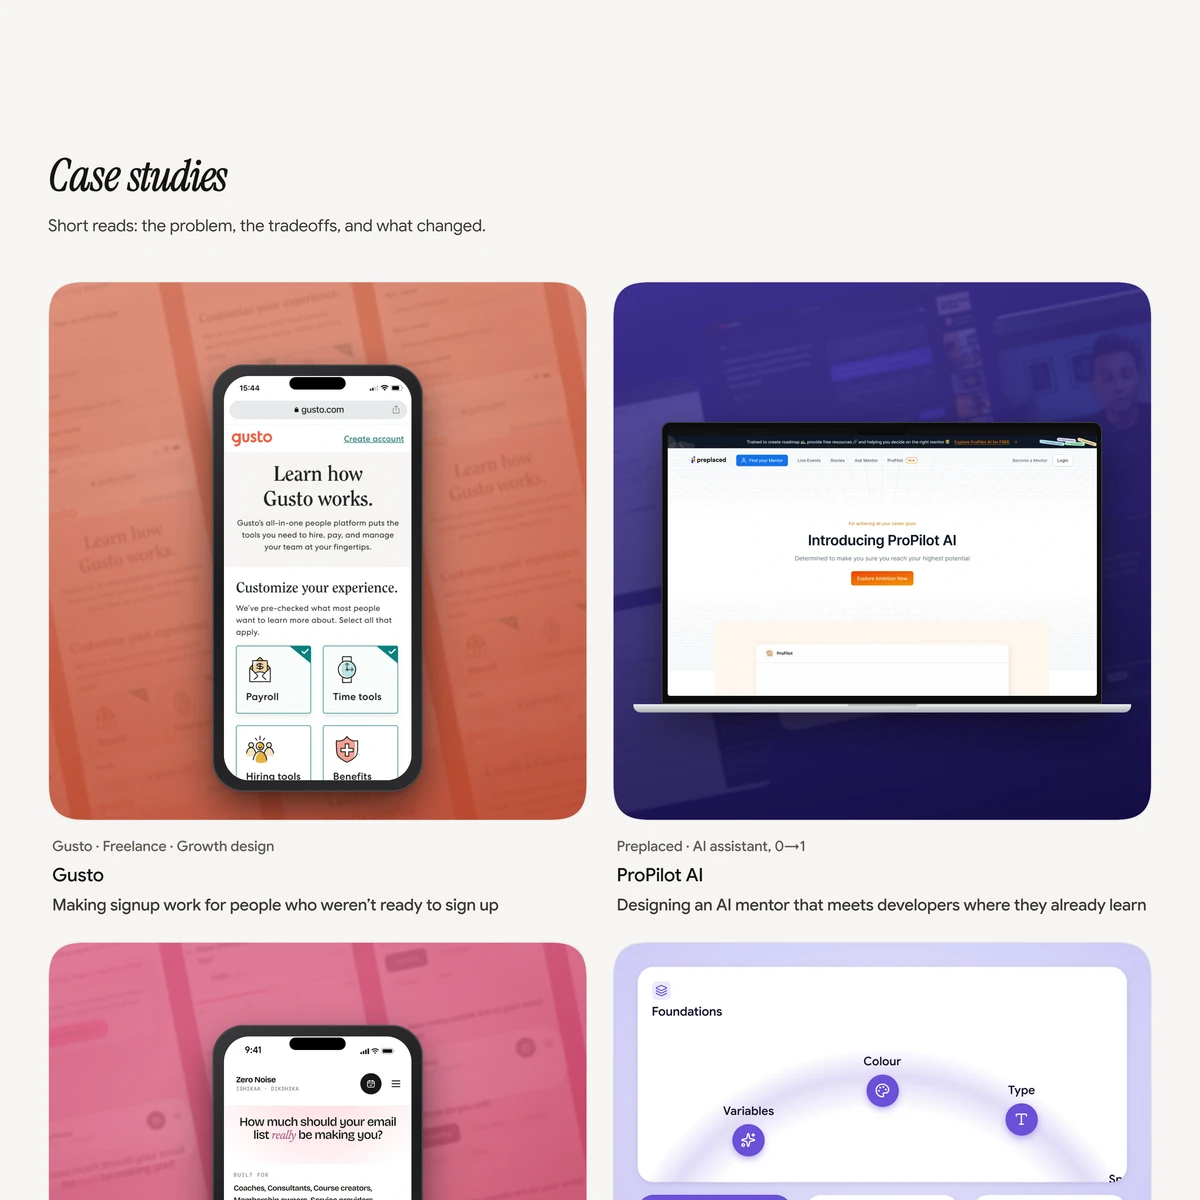
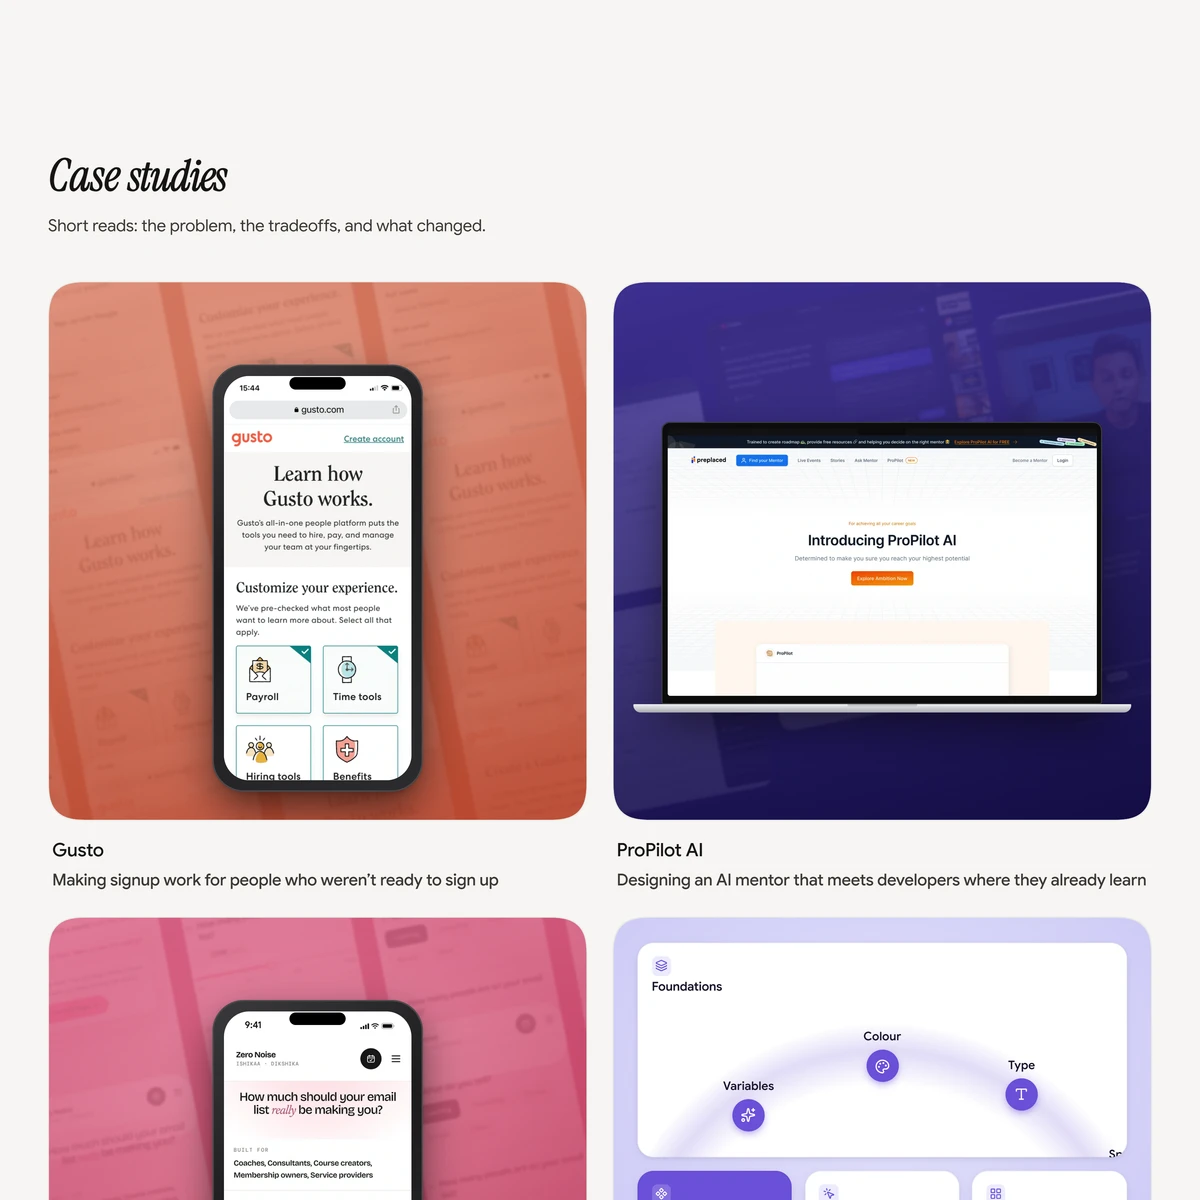
Zero Noise cover: close the blank gap above the first question so the form fits the phone

diff --git a/src/components/home/cover.tsx b/src/components/home/cover.tsx
@@ -48,7 +48,7 @@ export const COVERS: Record<string, CoverSpec> = {
   "zero-noise": {
     device: "phone",
     status: true,
-    screen: { src: "/work/covers/zero-noise-hd.webp", w: 1300, h: 2817 },
+    screen: { src: "/work/covers/zero-noise-fit.webp", w: 1300, h: 2629 },
     phoneWall: true,
     wall: ["/work/zero-noise/m-hero-clean.webp", "/work/zero-noise/m-estimate-clean.webp", "/work/zero-noise/clip-mobile-still.webp"],
     wash: ["#ffa3c0", "#b3264f"],
